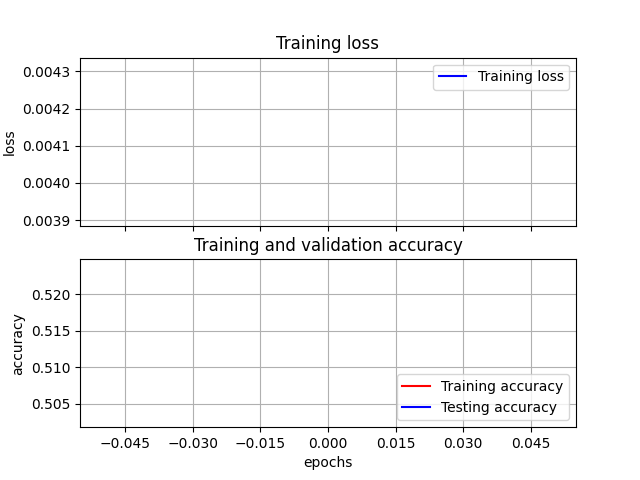
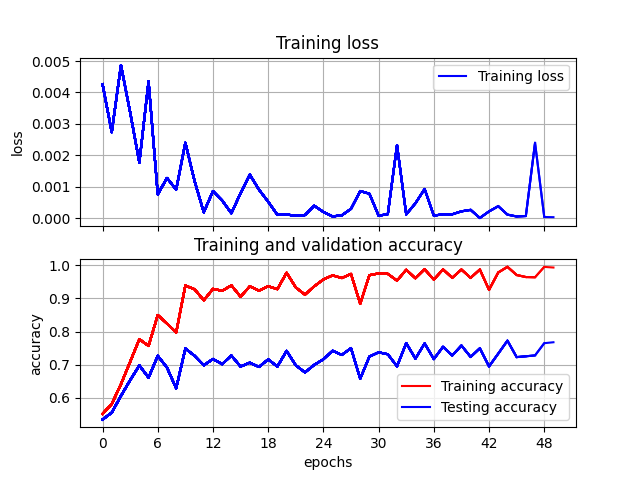
updated README

diff --git a/src/train_model.py b/src/train_model.py
@@ -107,7 +107,8 @@ def train_model(model_name, learning_rate, batch_size, num_epochs, num_workers, 
 
     # Loss and optimizer
     criterion = nn.CrossEntropyLoss()
-    optimizer = optim.Adam(model.parameters(), lr=learning_rate)
+    # optimizer = optim.Adam(model.parameters(), lr=learning_rate)
+    optimizer = 
 
     # Training loop
     print(f"Starting training: \n")
@@ -183,10 +184,11 @@ def train_model(model_name, learning_rate, batch_size, num_epochs, num_workers, 
             )
         
         # Save model at the end of each epoch
-        torch.save({
-            "state_dict": model.state_dict(),
-            "optimizer": optim.state_dict()
-        }, os.path.join(config['models']['rootdir'], config['models']['name']))
+        if config['model']['save']:
+            torch.save({
+                "state_dict": model.state_dict(),
+                "optimizer": optimizer.state_dict()
+            }, os.path.join(config['models']['rootdir'], config['models']['name']))
 
 def check_accuracy(loader, model, device):
     num_correct = 0

diff --git a/README.md b/README.md
@@ -2,6 +2,18 @@
 
 Implementation of a classifier using the [Animals-10](https://www.kaggle.com/alessiocorrado99/animals10) dataset from [kaggle](kaggle.com)
 
+Best results so far using `resnet18`:
+
+[Loss and accuracy](https://github.com/maxibove13/SRGAN/blob/main/figures/loss_acc_evol.png?raw=true)
+
 ## Instructions
 
 1. Run `process_images.py` in order to resize and crop raw images and generate csv file with image filename and associated label (animal type)
+
+2. Run 
+
+```
+train_model.py --model <model>
+````
+
+Where <model> could be either a simple `cnn` or `resnet18` loaded from `torchvision`
